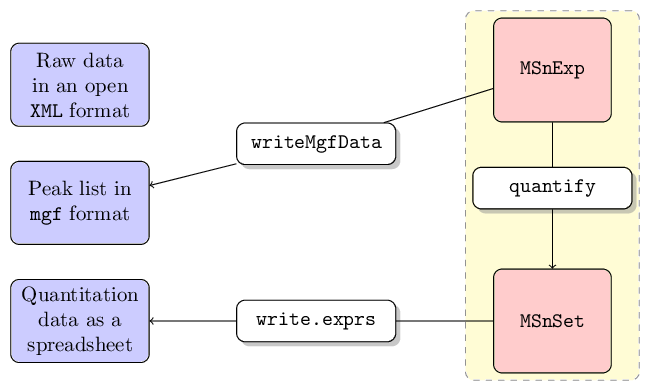
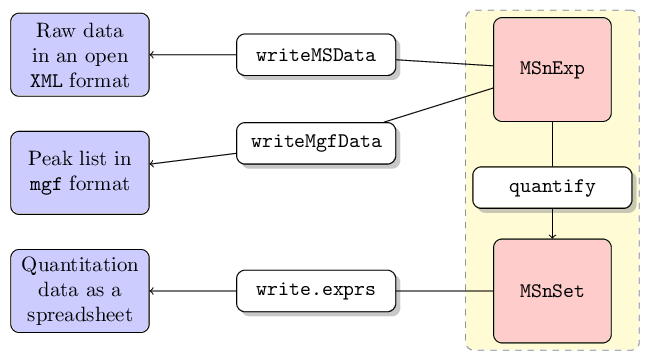
update io-out figure

diff --git a/vignettes/Figures/MSnbase-io-out.tex b/vignettes/Figures/MSnbase-io-out.tex
@@ -34,7 +34,8 @@ text width=5em, text centered, rounded corners, minimum height=5em]
   % Place nodes
   \node [input] (raw) {Raw data in an open \texttt{XML} format};
   \node [input, below of=raw] (mgf) {Peak list in \texttt{mgf} format};
-  \node [fun, right of=mgf, node distance=4cm, yshift=1cm] (writeMgfData) {\texttt{writeMgfData}};
+  \node [fun, right of=mgf, node distance=4cm, yshift=5mm] (writeMgfData) {\texttt{writeMgfData}};
+  \node [fun, right of=raw, node distance=4cm] (writeMSData) {\texttt{writeMSData}};
   \node [input, below of=mgf] (spreadsheet) {Quantitation data as a spreadsheet};
   % \node [input, below of=spreadsheet] (mztab) {\texttt{mzTab} format};
   \node [fun, right of=spreadsheet, node distance=4cm] (writeexprs) {\texttt{write.exprs}};
@@ -47,6 +48,8 @@ text width=5em, text centered, rounded corners, minimum height=5em]
     \node [fill=yellow!20,rounded corners, draw=black!50, dashed, fit=(MSnExp) (quantify) (MSnSet)] {};
   \end{pgfonlayer}
   % Draw edges
+  \draw  (MSnExp) -- (writeMSData);
+  \draw [->] (writeMSData) -- (raw);
   \draw  (MSnExp) -- (writeMgfData);
   \draw [->] (writeMgfData) -- (mgf);
   \draw (MSnSet) -- (writeexprs);
